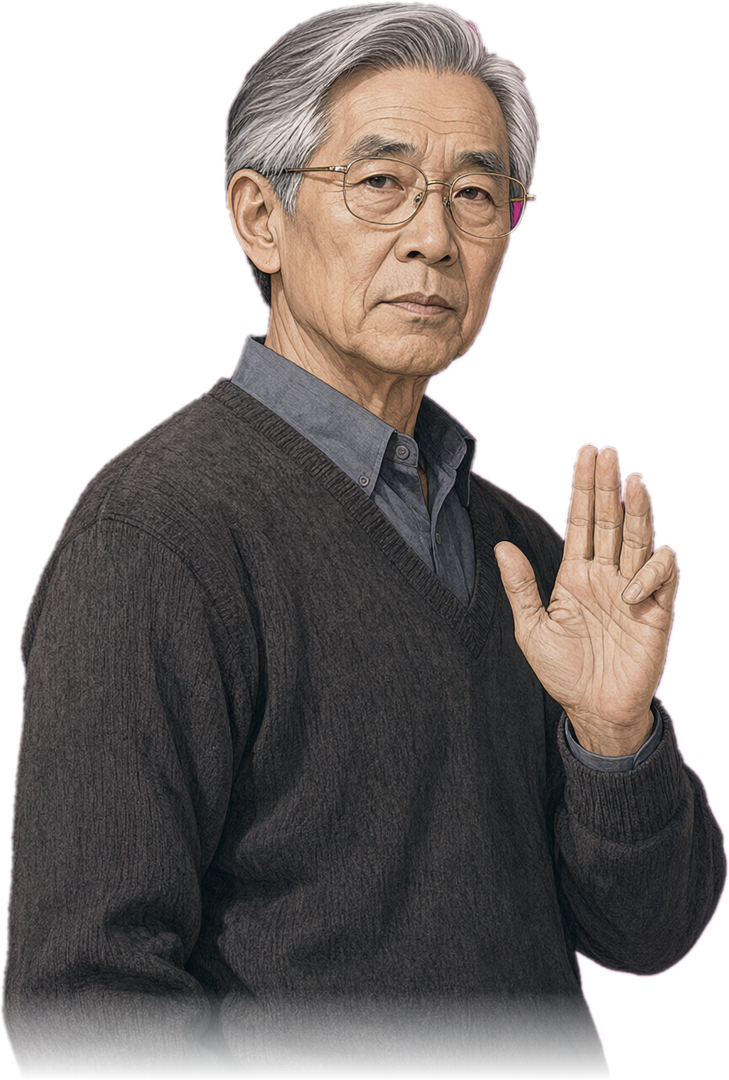
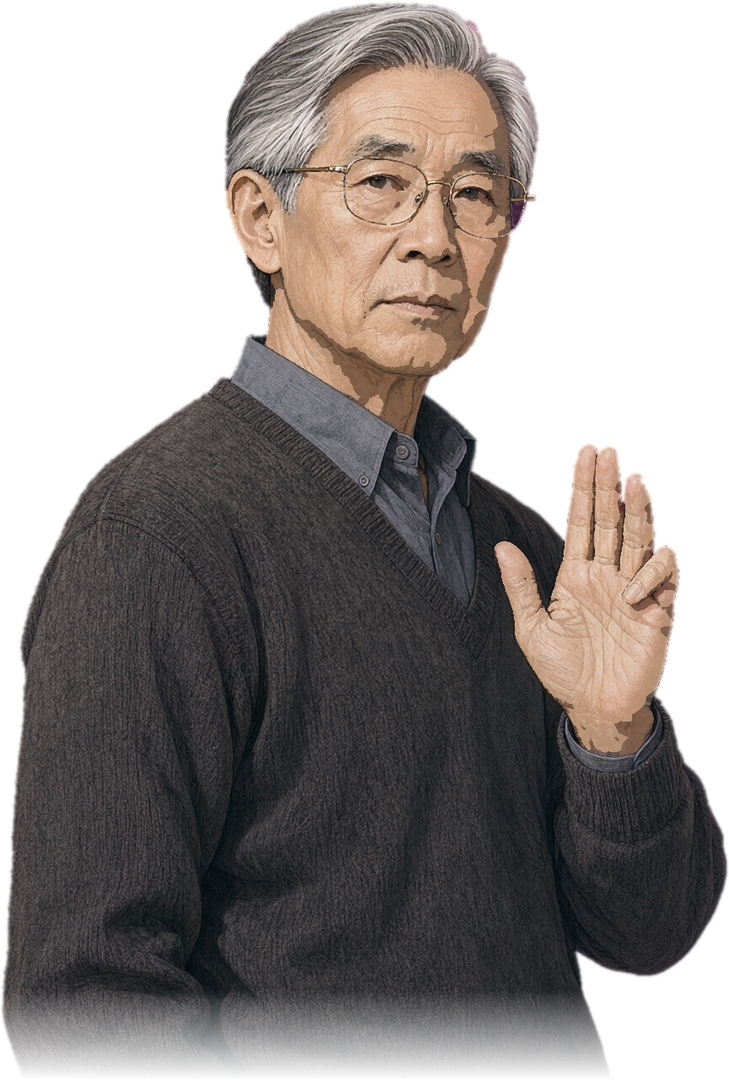
UI 第七轮：菜单侧栏改用 area 定位，记号页重排，立绘去品红溢色
- 侧栏/拼字竖排换成 area 钉死。内容自适应高度的容器上 yalign 落点会往上跑，
  菜单第一项顶到红头栏标题、拼字答案位骑在锈线上。
- 记号页 bb_legend 单独成页：样张关进 250 宽的格子里，说明压成一行，
  六格两组标题 618 高，视口 628 不用滚。快捷栏和三个页签都加了入口。
- 拼字候选格改成 button + 居中 text，单字不再顶在左边。
- 结算线挪到 0.50，离开"处沉默"和正文各一行净空。
- bb_pencil 加深到 #4a4a47：牛皮区对比从 3.8 提到 4.8。
- 立绘抠底的品红残留分两类清掉（软边按离底色距离、孤岛按中位色距离），
  再加一道 B>G 去溢色；9 张立绘重出，粉色像素归零。
- 冒烟：BB_AUTOPLAY 全 24 章跑通，61 条进度行、零 traceback；
  进度行统一走 bb_trace，挡掉 Ren'Py 图像预测那遍不看 if 条件的噪声。

diff --git a/blackbird-vn/tools/build_assets.py b/blackbird-vn/tools/build_assets.py
@@ -90,13 +90,33 @@ def key_out(src, tol=78.0, soft=2.0, bottom_cut=0.885):
         alpha = np.asarray(
             Image.fromarray(alpha).filter(ImageFilter.GaussianBlur(soft * 0.7)))
 
-    # 去溢色：贴边的像素里把品红分量往绿压
-    edge = ndimage.binary_dilation(bgmask, iterations=4) & ~bgmask
-    spill = edge & (a[:, :, 0] > a[:, :, 1] + 24) & (a[:, :, 2] > a[:, :, 1] + 18)
-    cap = a[:, :, 1] + 34
     out = a.astype(np.uint8).copy()
-    out[spill, 0] = np.minimum(out[spill, 0], cap[spill])
-    out[spill, 2] = np.minimum(out[spill, 2], cap[spill])
+
+    # 抠底留下的品红有两处，规则不一样，不能用一个阈值一起扫：
+    # 暖色头发和棕衣服的色相也偏红，宽阈值会把它们抹成邻域色。
+    #   A 软边：alpha 被高斯糊开的那一圈，RGB 还是原底色 → 按"离底色多远"判。
+    #   B 孤岛：泛洪只吃"连着边界"的背景色，夹在发丝之间的那几团留了下来。
+    #     底色不是标准品红（实测中位色约 (185,30,105)），所以按"离中位底色多远"判，
+    #     内部再收紧一档，免得把暖色头发和嘴唇一起抹掉。
+    fringe = (alpha > 0) & (alpha < 240) & (dist < tol * 1.9)
+    pocket = (dist < tol * 1.15) & ~bgmask
+    fix = fringe | pocket
+    good = (alpha > 240) & ~fix
+    if fix.any() and good.any():
+        # return_distances=False：默认会把距离矩阵排在第一个返回值前面。
+        near = ndimage.distance_transform_edt(
+            ~good, return_distances=False, return_indices=True)
+        out = np.where(fix[:, :, None], out[near[0], near[1]], out)
+
+    # 去溢色：底色渗进发丝是渐变，不是一整块，泛洪和换色都够不着它。
+    # 判据用"B 明显高于 G"——皮肤是 B<G、嘴唇是 B≈G，都不会被误伤；
+    # 压的是分量不是 alpha，发丝的明暗结构原样留着，只是不再发粉。
+    ro = out[:, :, 0].astype(np.int16)
+    go = out[:, :, 1].astype(np.int16)
+    bo = out[:, :, 2].astype(np.int16)
+    spill = (alpha > 0) & (bo > go + 20) & (ro > go + 30)
+    out[:, :, 0] = np.where(spill, np.clip(go + 34, 0, 255), ro).astype(np.uint8)
+    out[:, :, 2] = np.where(spill, np.clip(go + 26, 0, 255), bo).astype(np.uint8)
 
     rgba = np.dstack([out, alpha])
     return Image.fromarray(rgba, "RGBA")
